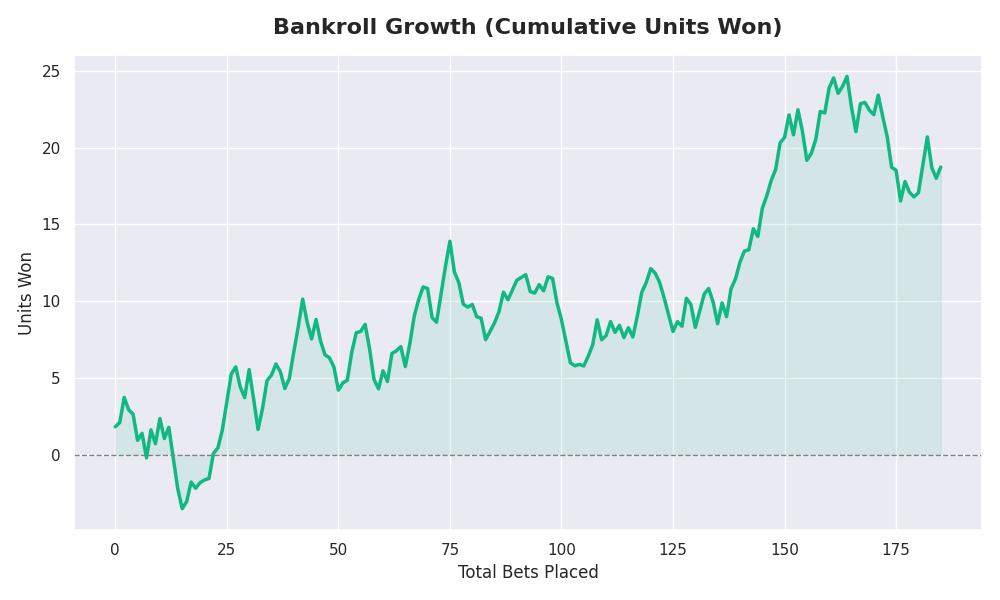
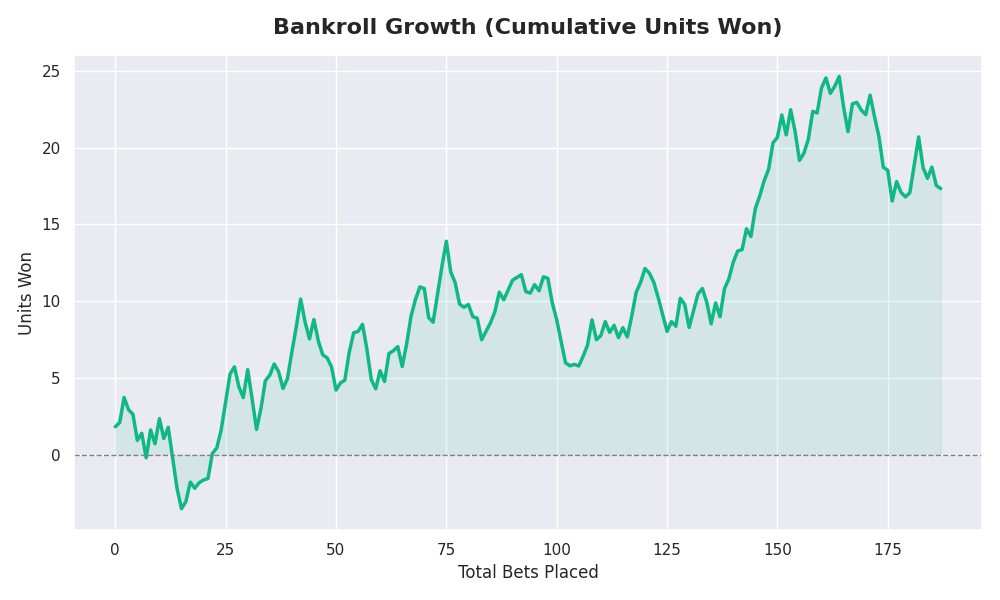
daily_update

diff --git a/docs/index.html b/docs/index.html
@@ -94,8 +94,8 @@
     <!-- 1. THE TICKER TAPE -->
     <div class="fixed top-0 w-full bg-acid-lime text-black font-mono text-xs font-bold py-1 z-40 overflow-hidden whitespace-nowrap border-b border-acid-lime">
         <div class="inline-block animate-ticker">
-            PROTOCOL 705 ONLINE // LAST UPDATE: 2025-12-20 09:12 UTC // ROI: 10.1% // RECORD: 103-83-0 // ALPHA GENERATED: 18.74u // SYSTEM LOAD: NOMINAL // MARKET VOLATILITY: DETECTED // 
-            PROTOCOL 705 ONLINE // LAST UPDATE: 2025-12-20 09:12 UTC // ROI: 10.1% // RECORD: 103-83-0 // ALPHA GENERATED: 18.74u // SYSTEM LOAD: NOMINAL // MARKET VOLATILITY: DETECTED // 
+            PROTOCOL 705 ONLINE // LAST UPDATE: 2025-12-21 09:12 UTC // ROI: 9.2% // RECORD: 103-85-0 // ALPHA GENERATED: 17.34u // SYSTEM LOAD: NOMINAL // MARKET VOLATILITY: DETECTED // 
+            PROTOCOL 705 ONLINE // LAST UPDATE: 2025-12-21 09:12 UTC // ROI: 9.2% // RECORD: 103-85-0 // ALPHA GENERATED: 17.34u // SYSTEM LOAD: NOMINAL // MARKET VOLATILITY: DETECTED // 
         </div>
     </div>
 
@@ -113,7 +113,7 @@
                 <p class="font-mono text-zinc-500 mt-2 text-sm uppercase tracking-wide">XGBoost Algorithmic Infrastructure</p>
             </div>
             <div class="text-right mt-6 md:mt-0">
-                <div class="font-mono text-4xl font-bold text-acid-lime glow-text">+18.74u</div>
+                <div class="font-mono text-4xl font-bold text-acid-lime glow-text">+17.34u</div>
                 <div class="font-mono text-xs text-zinc-500 uppercase tracking-widest">Net Alpha Generated</div>
             </div>
         </header>
@@ -126,7 +126,7 @@
                     <span class="font-mono text-xs text-zinc-500 uppercase">Return on Investment</span>
                     <svg class="w-4 h-4 text-acid-lime opacity-0 group-hover:opacity-100 transition-opacity transform group-hover:translate-x-1 duration-300" fill="none" stroke="currentColor" viewBox="0 0 24 24"><path stroke-linecap="round" stroke-linejoin="round" stroke-width="2" d="M13 7h8m0 0v8m0-8l-8 8-4-4-6 6"></path></svg>
                 </div>
-                <div class="text-3xl font-bold text-white group-hover:text-acid-lime transition-colors">10.1%</div>
+                <div class="text-3xl font-bold text-white group-hover:text-acid-lime transition-colors">9.2%</div>
             </div>
 
             <!-- Metric 2: Win Rate -->
@@ -136,9 +136,9 @@
                     <svg class="w-4 h-4 text-acid-lime opacity-0 group-hover:opacity-100 transition-opacity transform group-hover:translate-x-1 duration-300" fill="none" stroke="currentColor" viewBox="0 0 24 24"><path stroke-linecap="round" stroke-linejoin="round" stroke-width="2" d="M9 19v-6a2 2 0 00-2-2H5a2 2 0 00-2 2v6a2 2 0 002 2h2a2 2 0 002-2zm0 0V9a2 2 0 012-2h2a2 2 0 012 2v10m-6 0a2 2 0 002 2h2a2 2 0 002-2m0 0V5a2 2 0 012-2h2a2 2 0 012 2v14a2 2 0 01-2 2h-2a2 2 0 01-2-2z"></path></svg>
                 </div>
                 <div class="flex items-end gap-3">
-                    <div class="text-3xl font-bold text-white group-hover:text-acid-lime transition-colors">55.4%</div>
+                    <div class="text-3xl font-bold text-white group-hover:text-acid-lime transition-colors">54.8%</div>
                     <div class="h-1 flex-1 bg-zinc-800 mb-2 rounded-full overflow-hidden">
-                        <div class="h-full bg-white group-hover:bg-acid-lime transition-colors duration-500" style="width: 55.4%"></div>
+                        <div class="h-full bg-white group-hover:bg-acid-lime transition-colors duration-500" style="width: 54.8%"></div>
                     </div>
                 </div>
             </div>
@@ -149,13 +149,13 @@
                     <span class="font-mono text-xs text-zinc-500 uppercase">W - L - T</span>
                     <svg class="w-4 h-4 text-acid-lime opacity-0 group-hover:opacity-100 transition-opacity transform group-hover:translate-x-1 duration-300" fill="none" stroke="currentColor" viewBox="0 0 24 24"><path stroke-linecap="round" stroke-linejoin="round" stroke-width="2" d="M9 12l2 2 4-4m6 2a9 9 0 11-18 0 9 9 0 0118 0z"></path></svg>
                 </div>
-                <div class="text-3xl font-mono text-zinc-300 group-hover:text-acid-lime transition-colors">103<span class="text-zinc-600 mx-1">/</span>83<span class="text-zinc-600 mx-1">/</span>0</div>
+                <div class="text-3xl font-mono text-zinc-300 group-hover:text-acid-lime transition-colors">103<span class="text-zinc-600 mx-1">/</span>85<span class="text-zinc-600 mx-1">/</span>0</div>
             </div>
 
             <!-- Metric 4: System Confidence -->
             <div class="bg-panel border border-border-dim p-6 flex flex-col justify-between h-32 relative overflow-hidden hover:border-acid-lime transition-all duration-500 group opacity-0 animate-enter" style="animation-delay: 500ms;">
                 <div class="flex justify-between items-start z-10 relative">
-                    <span class="font-mono text-xs text-zinc-500 uppercase">System Confidence <span class="text-zinc-600">(σ=17.5%)</span></span>
+                    <span class="font-mono text-xs text-zinc-500 uppercase">System Confidence <span class="text-zinc-600">(σ=14.4%)</span></span>
                     <svg class="w-4 h-4 text-acid-lime opacity-0 group-hover:opacity-100 transition-opacity transform group-hover:translate-x-1 duration-300" fill="none" stroke="currentColor" viewBox="0 0 24 24"><path stroke-linecap="round" stroke-linejoin="round" stroke-width="2" d="M13 10V3L4 14h7v7l9-11h-7z"></path></svg>
                 </div>
                 <div class="text-xl font-bold text-zinc-300 group-hover:text-acid-lime z-10 relative transition-colors">MODERATE</div>
@@ -510,37 +510,37 @@
                     <!-- Matchup -->
                     <div class="col-span-3">
                         <div class="flex items-baseline gap-2">
-                            <span class="text-xl md:text-2xl font-bold text-white tracking-tight">PHI</span>
+                            <span class="text-xl md:text-2xl font-bold text-white tracking-tight">CIN</span>
                             <span class="text-zinc-600 text-sm">@</span>
-                            <span class="text-xl md:text-2xl font-bold text-white tracking-tight">WAS</span>
+                            <span class="text-xl md:text-2xl font-bold text-white tracking-tight">MIA</span>
                         </div>
                     </div>
 
                     <!-- Market Line -->
                     <div class="col-span-2 md:text-right font-mono text-zinc-400">
-                        WAS +7.0
+                        MIA +4.5
                     </div>
 
                     <!-- Model Line -->
                     <div class="col-span-2 md:text-right font-mono text-zinc-300">
-                        WAS +2.1
+                        MIA -0.1
                     </div>
 
                     <!-- Edge Visualization -->
                     <div class="col-span-3 flex flex-col justify-center h-full">
                         <div class="flex justify-between text-xs font-mono mb-1">
                             <span class="text-zinc-500">EDGE</span>
-                            <span class="text-zinc-300 font-bold">+5.0</span>
+                            <span class="text-zinc-300 font-bold">+4.6</span>
                         </div>
                         <div class="w-full bg-zinc-800 h-1.5 rounded-full overflow-hidden">
-                            <div class="h-full bg-emerald-500 shadow-[0_0_10px_rgba(204,255,0,0.5)]" style="width: 42%"></div>
+                            <div class="h-full bg-emerald-500 shadow-[0_0_10px_rgba(204,255,0,0.5)]" style="width: 38%"></div>
                         </div>
                     </div>
 
                     <!-- Action Button -->
                     <div class="col-span-2 md:text-right mt-2 md:mt-0">
                         <button class="w-full md:w-auto px-4 py-2 font-mono text-xs font-bold uppercase tracking-wider bg-emerald-900 text-emerald-100 border border-emerald-700">
-                            BET WAS <span class="opacity-70 ml-1">(1.2u)</span>
+                            BET MIA <span class="opacity-70 ml-1">(1.1u)</span>
                         </button>
                     </div>
                 </div>
@@ -565,65 +565,6 @@
                 <div data-confidence="solid" 
                      class="signal-row grid grid-cols-1 md:grid-cols-12 gap-4 p-4 md:p-6 border-l-4 border-l-emerald-700 border-y border-r border-border-dim items-center transition-all duration-300 opacity-0 animate-enter"
                      style="animation-delay: 1500ms">
-                    
-                    <!-- Matchup -->
-                    <div class="col-span-3">
-                        <div class="flex items-baseline gap-2">
-                            <span class="text-xl md:text-2xl font-bold text-white tracking-tight">CIN</span>
-                            <span class="text-zinc-600 text-sm">@</span>
-                            <span class="text-xl md:text-2xl font-bold text-white tracking-tight">MIA</span>
-                        </div>
-                    </div>
-
-                    <!-- Market Line -->
-                    <div class="col-span-2 md:text-right font-mono text-zinc-400">
-                        MIA +3.5
-                    </div>
-
-                    <!-- Model Line -->
-                    <div class="col-span-2 md:text-right font-mono text-zinc-300">
-                        MIA -0.1
-                    </div>
-
-                    <!-- Edge Visualization -->
-                    <div class="col-span-3 flex flex-col justify-center h-full">
-                        <div class="flex justify-between text-xs font-mono mb-1">
-                            <span class="text-zinc-500">EDGE</span>
-                            <span class="text-zinc-300 font-bold">+3.6</span>
-                        </div>
-                        <div class="w-full bg-zinc-800 h-1.5 rounded-full overflow-hidden">
-                            <div class="h-full bg-emerald-500 shadow-[0_0_10px_rgba(204,255,0,0.5)]" style="width: 30%"></div>
-                        </div>
-                    </div>
-
-                    <!-- Action Button -->
-                    <div class="col-span-2 md:text-right mt-2 md:mt-0">
-                        <button class="w-full md:w-auto px-4 py-2 font-mono text-xs font-bold uppercase tracking-wider bg-emerald-900 text-emerald-100 border border-emerald-700">
-                            BET MIA <span class="opacity-70 ml-1">(0.8u)</span>
-                        </button>
-                    </div>
-                </div>
-                
-                
-                
-                
-                
-                
-
-                
-                    
-                    
-                    
-                    
-                
-                
-                
-                
-
-                <!-- Added delay index for staggering -->
-                <div data-confidence="solid" 
-                     class="signal-row grid grid-cols-1 md:grid-cols-12 gap-4 p-4 md:p-6 border-l-4 border-l-emerald-700 border-y border-r border-border-dim items-center transition-all duration-300 opacity-0 animate-enter"
-                     style="animation-delay: 1600ms">
                     
                     <!-- Matchup -->
                     <div class="col-span-3">
@@ -677,7 +618,7 @@
                 <!-- Added delay index for staggering -->
                 <div data-confidence="lean" 
                      class="signal-row grid grid-cols-1 md:grid-cols-12 gap-4 p-4 md:p-6 border-border-dim items-center transition-all duration-300 opacity-0 animate-enter"
-                     style="animation-delay: 1700ms">
+                     style="animation-delay: 1600ms">
                     
                     <!-- Matchup -->
                     <div class="col-span-3">
@@ -731,7 +672,7 @@
                 <!-- Added delay index for staggering -->
                 <div data-confidence="lean" 
                      class="signal-row grid grid-cols-1 md:grid-cols-12 gap-4 p-4 md:p-6 border-border-dim items-center transition-all duration-300 opacity-0 animate-enter"
-                     style="animation-delay: 1800ms">
+                     style="animation-delay: 1700ms">
                     
                     <!-- Matchup -->
                     <div class="col-span-3">
@@ -785,61 +726,7 @@
                 <!-- Added delay index for staggering -->
                 <div data-confidence="lean" 
                      class="signal-row grid grid-cols-1 md:grid-cols-12 gap-4 p-4 md:p-6 border-border-dim items-center transition-all duration-300 opacity-0 animate-enter"
-                     style="animation-delay: 1900ms">
-                    
-                    <!-- Matchup -->
-                    <div class="col-span-3">
-                        <div class="flex items-baseline gap-2">
-                            <span class="text-xl md:text-2xl font-bold text-white tracking-tight">GB</span>
-                            <span class="text-zinc-600 text-sm">@</span>
-                            <span class="text-xl md:text-2xl font-bold text-white tracking-tight">CHI</span>
-                        </div>
-                    </div>
-
-                    <!-- Market Line -->
-                    <div class="col-span-2 md:text-right font-mono text-zinc-400">
-                        CHI -1.5
-                    </div>
-
-                    <!-- Model Line -->
-                    <div class="col-span-2 md:text-right font-mono text-zinc-300">
-                        CHI -0.1
-                    </div>
-
-                    <!-- Edge Visualization -->
-                    <div class="col-span-3 flex flex-col justify-center h-full">
-                        <div class="flex justify-between text-xs font-mono mb-1">
-                            <span class="text-zinc-500">EDGE</span>
-                            <span class="text-zinc-300 font-bold">+1.4</span>
-                        </div>
-                        <div class="w-full bg-zinc-800 h-1.5 rounded-full overflow-hidden">
-                            <div class="h-full bg-zinc-600 shadow-[0_0_10px_rgba(204,255,0,0.5)]" style="width: 12%"></div>
-                        </div>
-                    </div>
-
-                    <!-- Action Button -->
-                    <div class="col-span-2 md:text-right mt-2 md:mt-0">
-                        <button class="w-full md:w-auto px-4 py-2 font-mono text-xs font-bold uppercase tracking-wider bg-zinc-800 text-zinc-400">
-                            BET GB <span class="opacity-70 ml-1">(0.2u)</span>
-                        </button>
-                    </div>
-                </div>
-                
-                
-                
-                
-                
-                
-
-                
-                
-                
-                
-
-                <!-- Added delay index for staggering -->
-                <div data-confidence="lean" 
-                     class="signal-row grid grid-cols-1 md:grid-cols-12 gap-4 p-4 md:p-6 border-border-dim items-center transition-all duration-300 opacity-0 animate-enter"
-                     style="animation-delay: 2000ms">
+                     style="animation-delay: 1800ms">
                     
                     <!-- Matchup -->
                     <div class="col-span-3">
@@ -893,7 +780,7 @@
                 <!-- Added delay index for staggering -->
                 <div data-confidence="lean" 
                      class="signal-row grid grid-cols-1 md:grid-cols-12 gap-4 p-4 md:p-6 border-border-dim items-center transition-all duration-300 opacity-0 animate-enter"
-                     style="animation-delay: 2100ms">
+                     style="animation-delay: 1900ms">
                     
                     <!-- Matchup -->
                     <div class="col-span-3">
@@ -947,7 +834,7 @@
                 <!-- Added delay index for staggering -->
                 <div data-confidence="lean" 
                      class="signal-row grid grid-cols-1 md:grid-cols-12 gap-4 p-4 md:p-6 border-border-dim items-center transition-all duration-300 opacity-0 animate-enter"
-                     style="animation-delay: 2200ms">
+                     style="animation-delay: 2000ms">
                     
                     <!-- Matchup -->
                     <div class="col-span-3">
@@ -1001,7 +888,7 @@
                 <!-- Added delay index for staggering -->
                 <div data-confidence="lean" 
                      class="signal-row grid grid-cols-1 md:grid-cols-12 gap-4 p-4 md:p-6 border-border-dim items-center transition-all duration-300 opacity-0 animate-enter"
-                     style="animation-delay: 2300ms">
+                     style="animation-delay: 2100ms">
                     
                     <!-- Matchup -->
                     <div class="col-span-3">
@@ -1077,6 +964,34 @@
                                 <span class="text-acid-lime font-bold">WIN</span>
                             </td>
                             <td class="py-3 text-right pr-4 border-b border-zinc-900 text-acid-lime">+0.73u</td>
+                        </tr>
+                        
+                        
+                        
+                        <tr class="hover:bg-zinc-900 transition-colors">
+                            <td class="py-3 pl-4 border-b border-zinc-900">W16</td>
+                            <td class="py-3 border-b border-zinc-900 font-bold text-zinc-300">GB @ CHI</td>
+                            <td class="py-3 text-right border-b border-zinc-900">CHI -1.5</td>
+                            <td class="py-3 text-right border-b border-zinc-900 text-zinc-500">1.4</td>
+                            <td class="py-3 pl-8 border-b border-zinc-900"><span class="bg-zinc-800 text-white px-2 py-0.5 text-xs font-bold">GB</span></td>
+                            <td class="py-3 text-right border-b border-zinc-900">
+                                <span class="text-warning-orange font-bold">LOSS</span>
+                            </td>
+                            <td class="py-3 text-right pr-4 border-b border-zinc-900 text-warning-orange">-0.2u</td>
+                        </tr>
+                        
+                        
+                        
+                        <tr class="hover:bg-zinc-900 transition-colors">
+                            <td class="py-3 pl-4 border-b border-zinc-900">W16</td>
+                            <td class="py-3 border-b border-zinc-900 font-bold text-zinc-300">PHI @ WAS</td>
+                            <td class="py-3 text-right border-b border-zinc-900">WAS +7.0</td>
+                            <td class="py-3 text-right border-b border-zinc-900 text-zinc-500">5.0</td>
+                            <td class="py-3 pl-8 border-b border-zinc-900"><span class="bg-zinc-800 text-white px-2 py-0.5 text-xs font-bold">WAS</span></td>
+                            <td class="py-3 text-right border-b border-zinc-900">
+                                <span class="text-warning-orange font-bold">LOSS</span>
+                            </td>
+                            <td class="py-3 text-right pr-4 border-b border-zinc-900 text-warning-orange">-1.2u</td>
                         </tr>
                         
                     </tbody>
